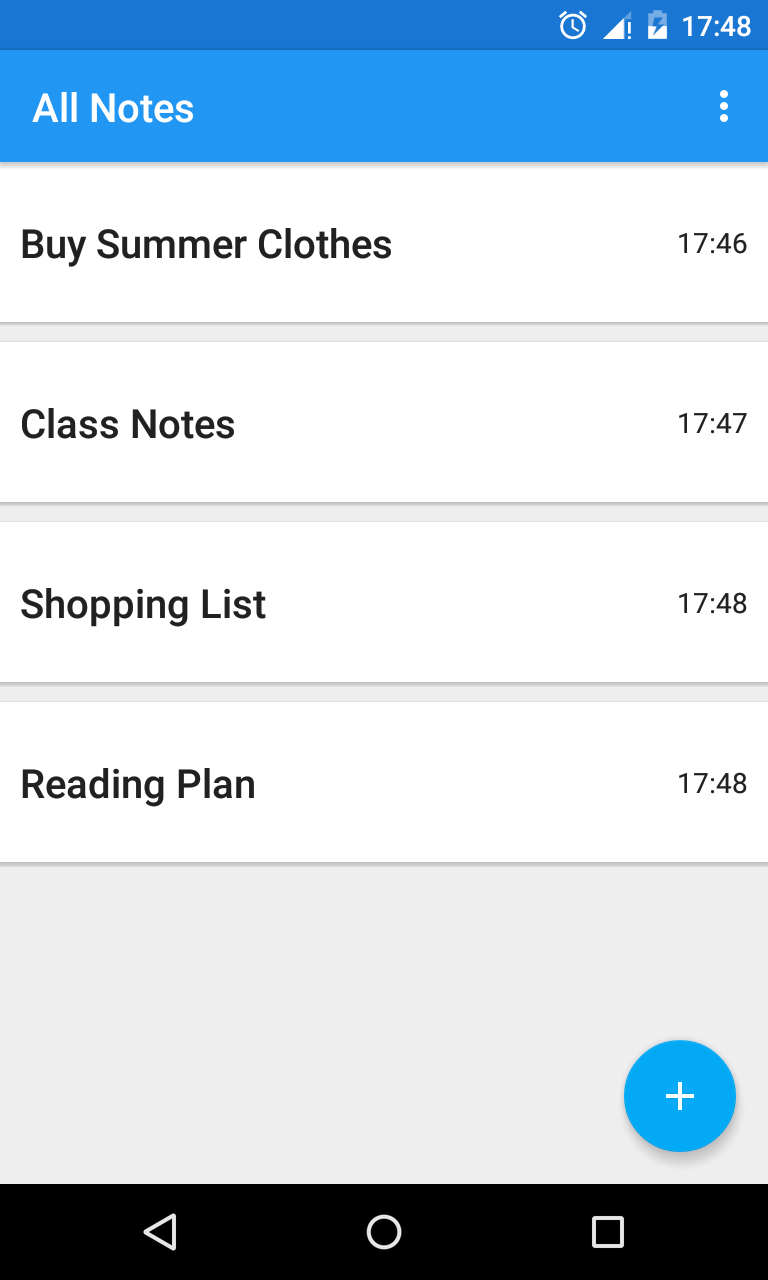
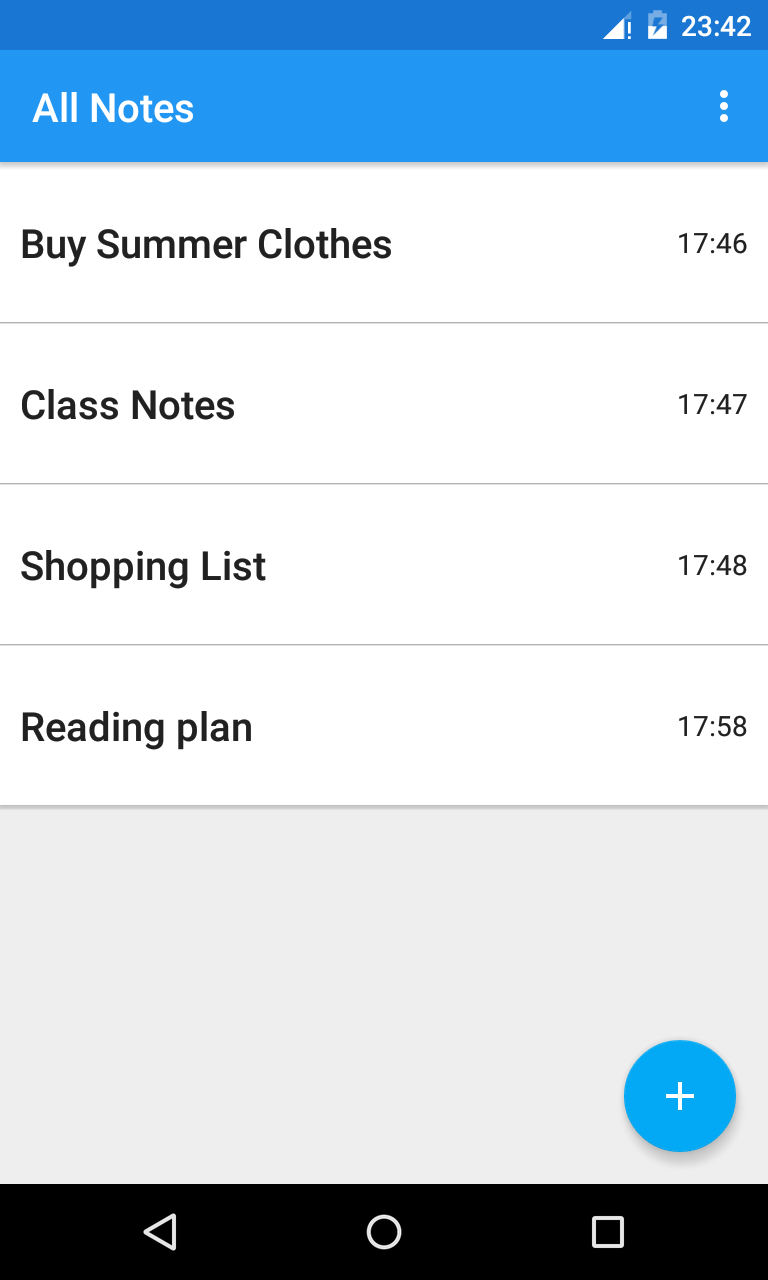
update item design.

diff --git a/app/src/main/java/com/wings/simplenote/config/DividerItemDecoration.java b/app/src/main/java/com/wings/simplenote/config/DividerItemDecoration.java
@@ -1,0 +1,77 @@
+package com.wings.simplenote.config;
+
+import android.content.Context;
+import android.content.res.TypedArray;
+import android.util.AttributeSet;
+import android.support.v7.widget.RecyclerView;
+import android.support.v7.widget.LinearLayoutManager;
+import android.view.View;
+import android.graphics.Rect;
+import android.graphics.drawable.Drawable;
+import android.graphics.Canvas;
+
+public class DividerItemDecoration extends RecyclerView.ItemDecoration {
+
+	private Drawable mDivider;
+
+	public DividerItemDecoration(Context context, AttributeSet attrs) {
+		final TypedArray a = context.obtainStyledAttributes(attrs, new int [] { android.R.attr.listDivider });
+		mDivider = a.getDrawable(0);
+		a.recycle();
+	}
+
+	public DividerItemDecoration(Drawable divider) { mDivider = divider; }
+
+	@Override
+	public void getItemOffsets (Rect outRect, View view, RecyclerView parent, RecyclerView.State state) {
+		super.getItemOffsets(outRect, view, parent, state);
+		if (mDivider == null) return;
+		if (parent.getChildPosition(view) < 1) return;
+
+		if (getOrientation(parent) == LinearLayoutManager.VERTICAL) outRect.top = mDivider.getIntrinsicHeight();
+		else outRect.left = mDivider.getIntrinsicWidth();
+	}
+
+	@Override
+	public void onDrawOver(Canvas c, RecyclerView parent) {
+		if (mDivider == null) { super.onDrawOver(c, parent); return; }
+
+		if (getOrientation(parent) == LinearLayoutManager.VERTICAL) {
+			final int left = parent.getPaddingLeft();
+			final int right = parent.getWidth() - parent.getPaddingRight();
+			final int childCount = parent.getChildCount();
+
+			for (int i=1; i < childCount; i++) {
+				final View child = parent.getChildAt(i);
+				final RecyclerView.LayoutParams params = (RecyclerView.LayoutParams) child.getLayoutParams();
+				final int size = mDivider.getIntrinsicHeight();
+				final int top = child.getTop() - params.topMargin;
+				final int bottom = top + size;
+				mDivider.setBounds(left, top, right, bottom);
+				mDivider.draw(c);
+			}
+		} else { //horizontal
+			final int top = parent.getPaddingTop();
+			final int bottom = parent.getHeight() - parent.getPaddingBottom();
+ 			final int childCount = parent.getChildCount();
+
+			for (int i=1; i < childCount; i++) {
+				final View child = parent.getChildAt(i);
+				final RecyclerView.LayoutParams params = (RecyclerView.LayoutParams) child.getLayoutParams();
+				final int size = mDivider.getIntrinsicWidth();
+				final int left = child.getLeft() - params.leftMargin;
+				final int right = left + size;
+				mDivider.setBounds(left, top, right, bottom);
+				mDivider.draw(c);
+			}
+		}
+	}
+
+	private int getOrientation(RecyclerView parent) {
+		if (parent.getLayoutManager() instanceof LinearLayoutManager) {
+			LinearLayoutManager layoutManager = (LinearLayoutManager) parent.getLayoutManager();
+			return layoutManager.getOrientation();
+		} else throw new IllegalStateException("DividerItemDecoration can only be used with a LinearLayoutManager.");
+	}
+
+}

diff --git a/app/src/main/java/com/wings/simplenote/view/MainActivity.java b/app/src/main/java/com/wings/simplenote/view/MainActivity.java
@@ -16,6 +16,7 @@ import android.view.MenuItem;
 
 import com.wings.simplenote.R;
 import com.wings.simplenote.adapter.NotesAdapter;
+import com.wings.simplenote.config.DividerItemDecoration;
 import com.wings.simplenote.model.domain.MultiSelector;
 import com.wings.simplenote.model.domain.Note;
 import com.wings.simplenote.presenter.INotesShowPresenter;
@@ -70,6 +71,8 @@ public class MainActivity extends AppCompatActivity implements INotesShowView,
         mShowPresenter = new NotesListPresenter(this, this);
         mShowPresenter.showNotesList();
         mNotesViews.setLayoutManager(mLinearLayoutManager);
+        mNotesViews.addItemDecoration(
+                new DividerItemDecoration(this, null));
         mRefreshLayout.setColorSchemeResources(
                 R.color.colorPrimary,
                 R.color.green_cycle,
@@ -95,7 +98,7 @@ public class MainActivity extends AppCompatActivity implements INotesShowView,
         switch (id) {
             case R.id.action_about:
                 AboutFragment aboutFragment = new AboutFragment();
-                aboutFragment.show(getFragmentManager(),ABOUT_FRAGMENT);
+                aboutFragment.show(getFragmentManager(), ABOUT_FRAGMENT);
                 break;
         }
         return super.onOptionsItemSelected(item);

diff --git a/readme.md b/readme.md
@@ -1,5 +1,5 @@
 #极简笔记  
-[English version](readme.md)
+[English version](readme-en.md)
 ###MVP和Material Design的一般实践.![](http://ww1.sinaimg.cn/large/b26fc81fgw1f3h7mucz7vg200m00m741.gif)  
 
 ##简介
